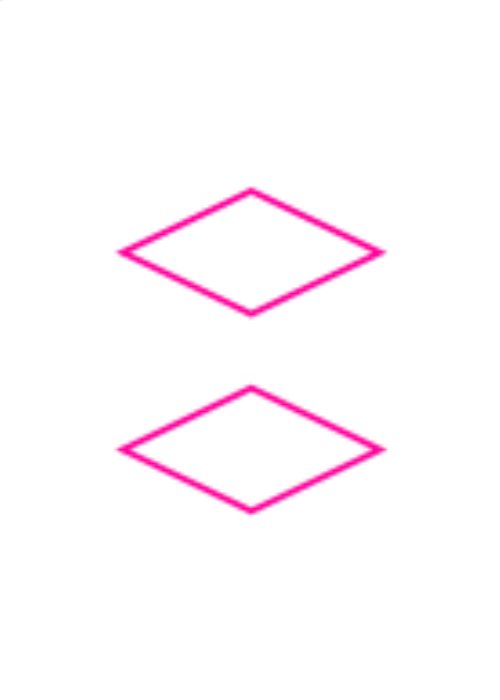
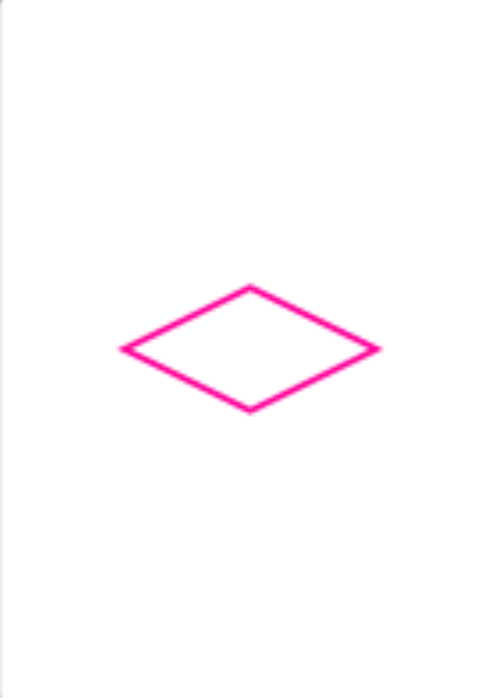
adding dupe detection, which helped me find a card with the wrong number

Changed region(s): [[0.21, 0.27, 0.78, 0.75]]

diff --git a/src/scenes/Game.js b/src/scenes/Game.js
@@ -2,6 +2,8 @@ import { Scene } from 'phaser';
 
 export class Game extends Scene
 {
+    
+    numberOfCards = 12 //TODO extract to config or something
     numbers = [1, 2, 3]
     colors = ["green", "purple", "red"]
     symbols = ["diamond", "pill", "squiggly"]
@@ -60,13 +62,24 @@ export class Game extends Scene
     }
 
     createNewGrid() {
-        var numberOfCards = 12 //TODO extract to config or something
         var cards = []
 
-        for (var i = 0; i < numberOfCards; i++) {
-            cards.push(this.newRandomCard())
+        while (cards.length < this.numberOfCards) {
+            const newCard = this.newRandomCard();
+            if (!cards.some(card => this.cardsAreEqual(card, newCard))) {
+                cards.push(newCard)
+            }
         }
         return cards
+    }
+
+    cardsAreEqual(cardOne, cardTwo) {
+        return (
+            cardOne.number === cardTwo.number &&
+            cardOne.color === cardTwo.color &&
+            cardOne.symbol === cardTwo.symbol &&
+            cardOne.fill === cardTwo.fill
+        )
     }
 
     selectedCards = []
